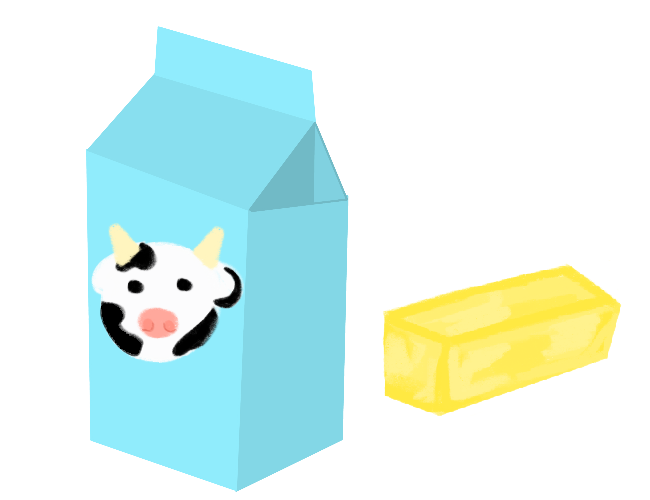
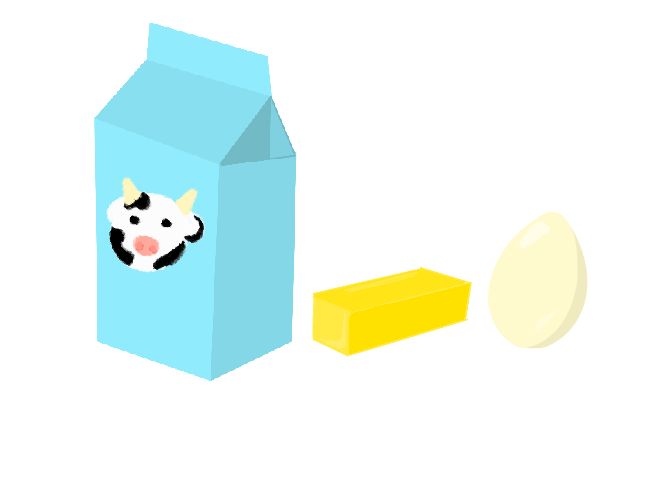
Adding new art assets & implementing them

diff --git a/sketch.js b/sketch.js
@@ -1,6 +1,7 @@
 let img;
 var cake;
 var houseFire;
+var lastQuestion;
 
 let gameState = "title";
 let canvas;
@@ -32,12 +33,25 @@ function preload() {
      "Frame5.png",
      "Frame5.png"
    );
+lastQuestion = loadAnimation(
+  "question1.png",
+  "question2.png",
+  "question3.png",
+  "question4.png",
+  "question5.png",
+  "question6.png",
+  "question7.png",
+
+);
+
+
 
   frannyfriend = loadImage ('Images/Franny-Frog-Chef.png');
   celina = loadImage('Images/Celina-.png');
   celinadead = loadImage('Images/CelinaDead.png');
   frannydead = loadImage('Images/FrannyDead.png');
-  ingredients =loadImage('Images/ingredients.png')
+  ingredients =loadImage('Images/ingredients.png');
+  knife = loadImage('Images/Knife.png');
 
   {
     myFont = loadFont('GoogleFont/Poppins-Medium.ttf')
@@ -251,8 +265,8 @@ function giftCake () {
   textSize(35);
   textAlign(CENTER);
   text("C= Let it cool!            X = Give the cake now!", 500, 150);
-
     image(cursorImg, mouseX, mouseY);
+    animation(lastQuestion, 450, 500);
 }
 
 function burntTongue () {
@@ -267,11 +281,13 @@ function burntTongue () {
   text("They're now plotting your murder, cute!", 480, 220);
   textAlign(CENTER);
   textSize(20);
-  text("Refresh to play again!", 450, 270);
+  text("Refresh to play again!", 480, 270);
 
 textAlign(CENTER);
   textSize(15);
   text("#scorpioenergy", 480, 290);
+  image(knife, 300, 300);
+
 
 }
 
